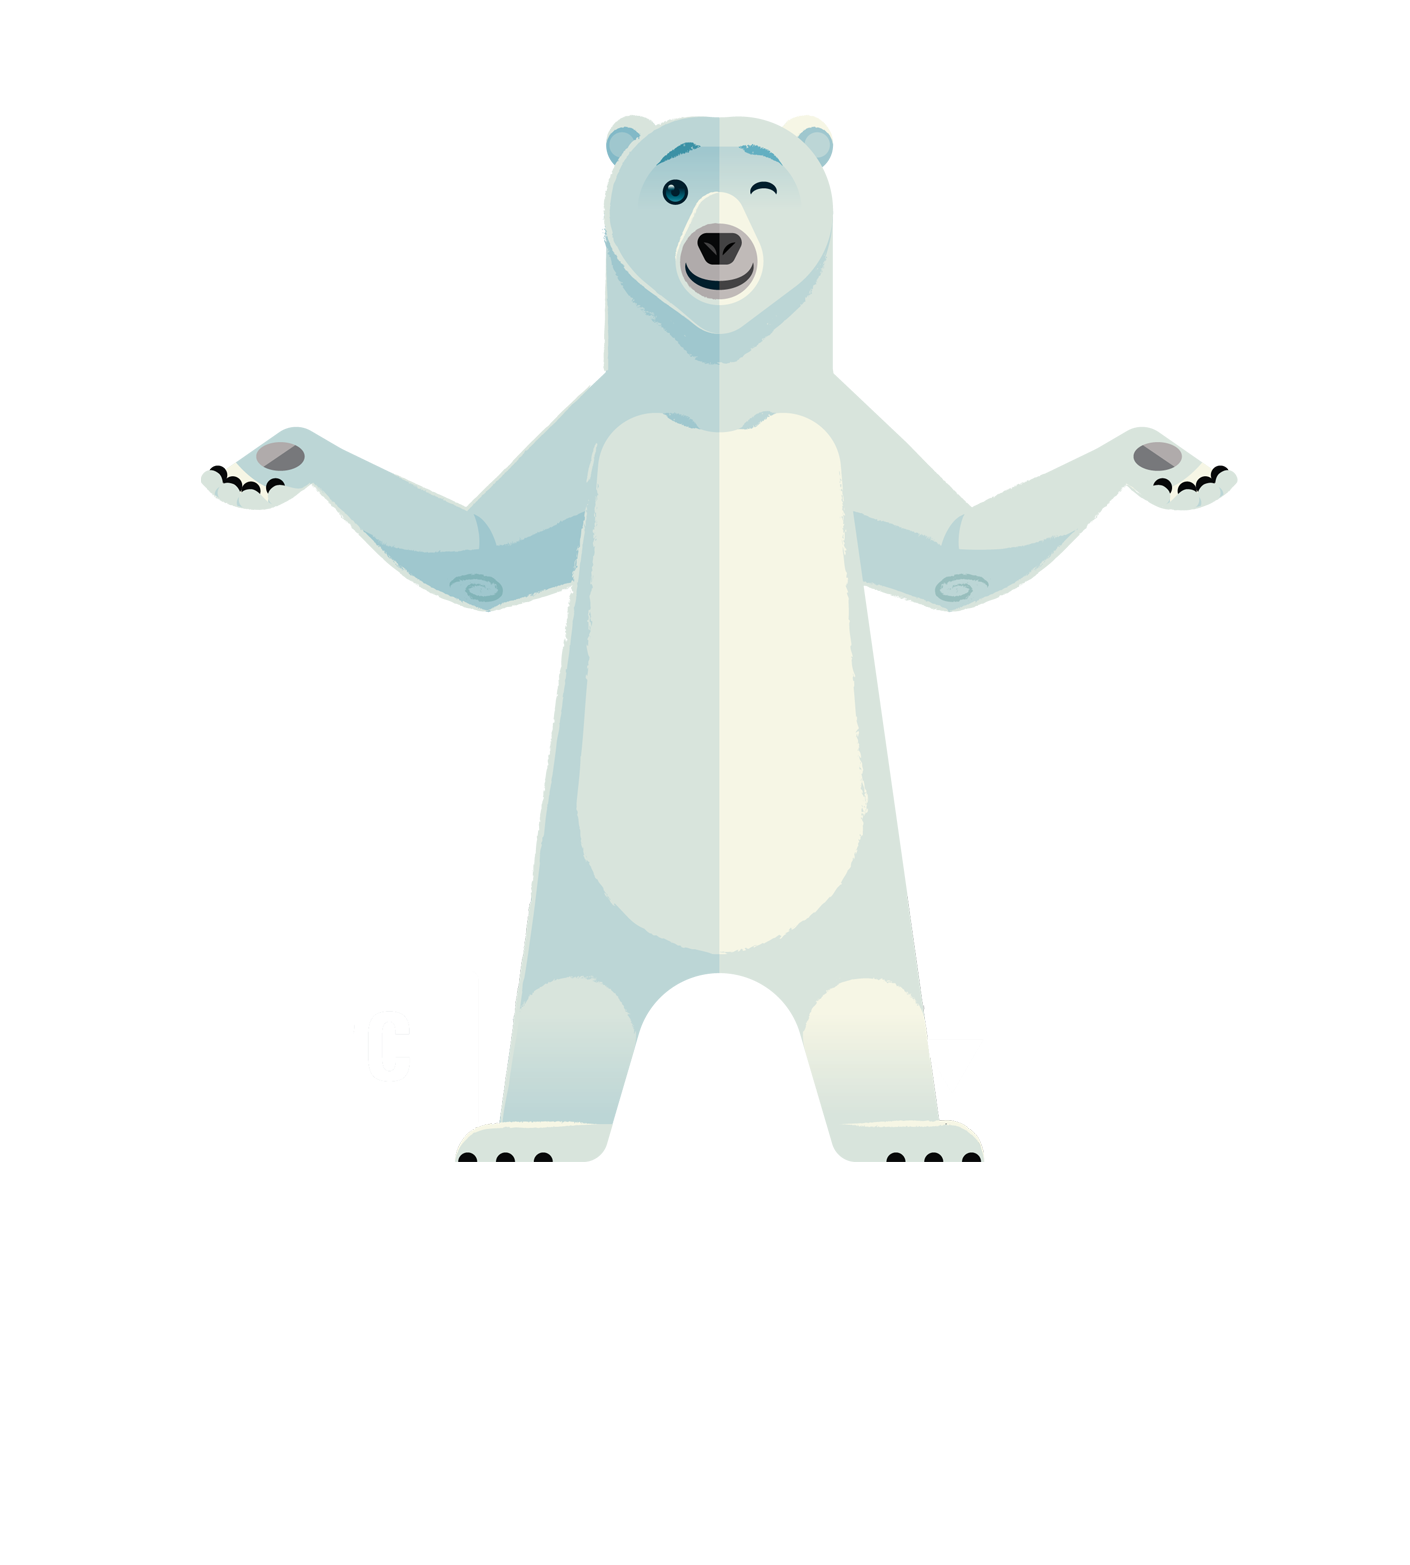
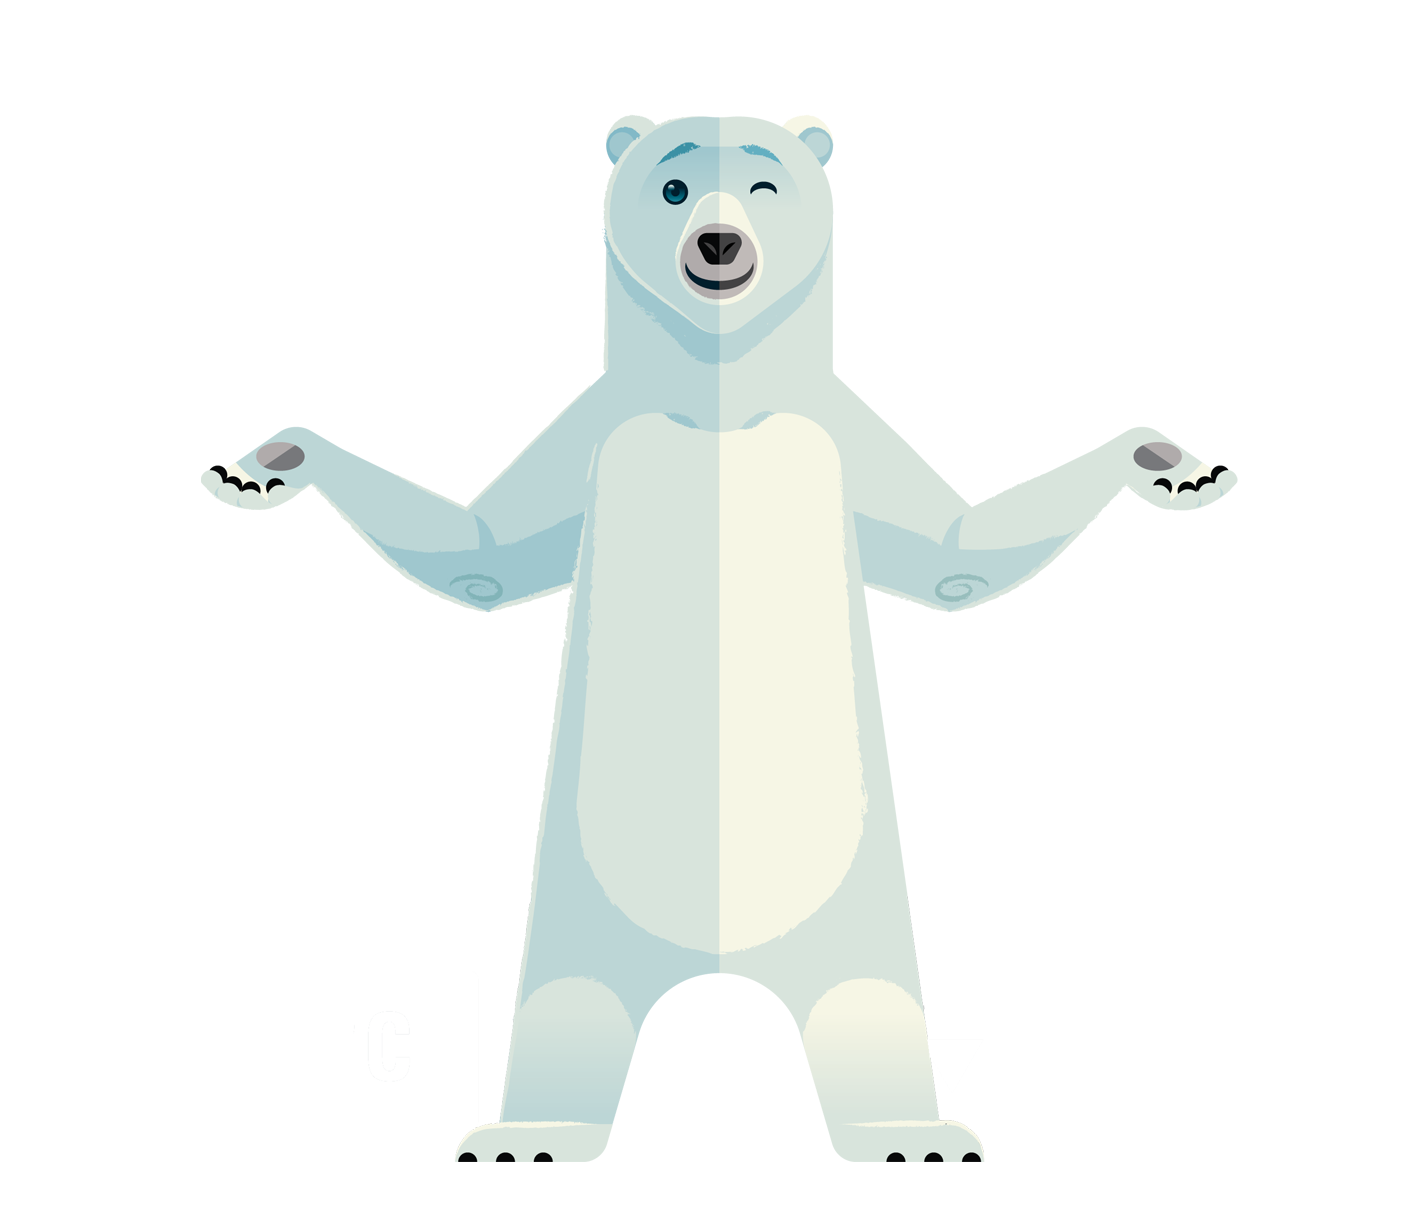
add calc user screen

Changed region(s): [[0.1248, 0.062, 0.8738, 0.9608]]

diff --git a/main.css b/main.css
@@ -1,8 +1,10 @@
 button {
+  /* position: fixed; */
+  /* align-self: flex-end; */
   font-family: "Open Sans";
   color: #fff;
   text-align: center;
-  position: absolute;
+  /* margin-bottom: 15px; */
 
   /* Round button */
 
@@ -14,8 +16,8 @@ button {
 
   /* Round button */
 
-  left: 870px;
-  bottom: 25px;
+  /* left: 870px; */
+  /* bottom: 25px; */
 
   width: 195px;
   height: 75px;
@@ -38,36 +40,55 @@ button:hover {
 
 body {
   display: flex;
+  flex-direction: column;
   /* justify-content: center; */
-  height: 100vh;
+  /* height: 100vh; */
+  /* height: 100px; */
+  /* width: 250px; */
   margin: 0px;
   padding: 0px;
-
+  /* background-color: #fcd299; */
   /* overflow: hidden; */
+  height: 100%;
+  background-image:  url("./assets/background.png"), linear-gradient(#fcd299, LightGray);
+  background-size: 70% 100%, contain;
+  background-repeat: no-repeat;
+  background-position: center;
 }
 
 .scene {
+  position: relative;
   display: flex;
-  height: 100%;
+  justify-content: center;
+  /* height: 750px; */
+  /* width: 1550px; */
   width: 100%;
+  height: 100%;
   font-family: "Open Sans";
-  /* justify-content: center;
-  align-items: center; */
+  border: 5px solid red;
+  box-sizing: border-box;
+  /* align-items: center; */
   /* justify-content: flex-start; */
   /* justify-content: space-between; */
   /* flex-direction: column; */
   /* overflow: hidden; */
 
   /* background-image: linear-gradient(#6e4aff, #49A16C); */
-  background-image: url("./assets/background.png");
+  /* background-image: url("./assets/background.png"); */
   /* background-color: gray; */
   /* background-size: cover; */
-  background-size: 70% 100%;
-  background-repeat: no-repeat;
-  background-position: center;
+  /* background-size: 70% 100%; */
+  /* background-repeat: no-repeat; */
+  /* background-position: center; */
   /* background-size: contain; */
   background-origin: content-box;
   z-index: 0;
+}
+
+.scene__footer {
+  justify-self: center;
+  align-self: flex-end;
+  padding-bottom: 15px;
 }
 
 .background-image::before {
@@ -75,7 +96,7 @@ body {
   position: absolute;
   width: 100%;
   height: 100%;
-  background-image: linear-gradient(#fcd299, LightGray);
+  /* background-image: linear-gradient(#fcd299, LightGray); */
   z-index: -55;
 }
 
@@ -84,7 +105,7 @@ body {
   position: absolute;
   width: 100%;
   height: 100%;
-  background-image: url("./assets/background.png");
+  /* background-image: url("./assets/background.png"); */
   z-index: -45;
   background-size: 70% 100%;
   background-repeat: no-repeat;
@@ -93,14 +114,15 @@ body {
 }
 
 .background-image {
-  position: absolute;
-  overflow: hidden;
+  position: fixed;
+  /* overflow: hidden; */
   display: flex;
   width: 100%;
-  height: 100%;
+  height: calc(100% - 100px);
   justify-content: center;
-  align-items: center;
   /* align-items: center; */
+  /* align-items: center; */
+  /* background-image: url("./assets/background.png"); */
   /* background-image: url("./assets/bear.png"); */
   /* background-repeat: no-repeat; */
   /* background-size: contain; */
@@ -111,20 +133,23 @@ body {
   position: relative;
   /* display: flex; */
   /* justify-content: flex-end; */
-  background-position: top;
+
+  background-position: center;
 
   /* width: 100%; */
   /* height: 100%; */
   width: 100vh;
   /* height: 100vh; */
-  height: 955px;
+  /* height: 955px; */
+  height: 100%;
   /* left: */
   /* left: 28%; */
-  background-image: url("./assets/bear.png");
+  background-image: url("./assets/bear-3.png");
   /* background-size: auto; */
   background-repeat: no-repeat;
   /* background-size: 40% 100%; */
-  background-size: 100% 1100px;
+  /* background-size: 100% 100%; */
+  background-size: contain;
   z-index: -10;
 }
 
@@ -138,53 +163,79 @@ body {
   /* top: 45%; */
   /* right: 15%; */
 
-  left: 1200px;
-  top: 58px;
+  /* left: 1200px; */
+  /* top: 58px; */
+
+  transform: translateX(320px) translateY(65px) scale(0.9);
 }
 
 :root {
-  --lottery-left: 485px;
-  --lottery-height: 240px;
-  --lottery-width: 240px;
+  /* --lottery-left: 485px; */
+  /* --lottery-height: 240px; */
+  /* --lottery-width: 240px; */
+}
+
+.lottery {
+  position: fixed;
+  display: flex;
+  justify-content: space-between;
+  width: calc(100vh - 50px);
+  height: 190px;
 }
 
 .lottery-machine {
+  display: flex;
+  position: absolute;
+  /* width: 100%; */
+  /* height: 100%; */
   /* position: absolute; */
-  position: relative;
   border-radius: 50%;
+  /* width: 240px; */
+  /* height: 240px; */
+  /* justify-self: flex-start; */
+  /* transform: translateX(-320px) translateY(65px) scale(0.9); */
   /* left: 93px; */
-  left: var(--lottery-left);
-  top: 35px;
+  /* left: var(--lottery-left); */
+  /* left: 5%; */
+  /* top: 35px; */
   /* left: var(--lottery-left); */
   /* width: 200px; */
-  width: var(--lottery-height);
+  /* width: var(--lottery-height); */
+  /* width: 25%; */
+  /* min-width: 150px; */
+  /* max-width: 450px; */
   /* width: 100%; */
   /* height: 215px; */
-  height: var(--lottery-height);
+  /* height: var(--lottery-height); */
   /* height: 100%; */
-  display: flex;
-  justify-content: center;
+  /* display: flex; */
+  /* justify-content: center; */
   /* ju */
   /* justify-self: flex-end; */
 }
+
 .lottery-machine-canvas {
-  position: absolute;
-  left: 8px;
-  top: 23px;
-  width: var(--lottery-width);
-  height: var(--lottery-height);
-  padding: 7px;
+  /* position: fixed; */
+  /* left: 8px; */
+  /* top: 23px; */
+  /* width: var(--lottery-width); */
+  /* height: var(--lottery-height); */
+  /* padding: 7px; */
   border-radius: inherit;
   box-sizing: border-box;
   transition: opacity 0.7s;
 }
+
 .lottery-machine::after {
   content: "";
   position: absolute;
-  left: 8px;
-  top: 23px;
-  width: var(--lottery-width);
-  height: var(--lottery-height);
+  /* left: 8px; */
+  /* top: 23px; */
+  left: 0px;
+  /* width: var(--lottery-width); */
+  /* height: var(--lottery-height); */
+  width: 100%;
+  height: 100%;
   background-color: rgba(115, 140, 148, 0.651);
   border: 7px solid darkorange;
   border-radius: inherit;
@@ -408,4 +459,15 @@ body {
 }
 .lottery-ball.clone.no-transition {
   transition: none;
+}
+
+
+.user-window{
+	width: 100%;
+	position: absolute;
+	display: flex;
+	/* justify-content: flex-end; */
+	flex-direction: column;
+	align-items: flex-end;
+	font-size: xx-large;
 }

diff --git a/script.js b/script.js
@@ -16,7 +16,7 @@ class LotteryMachine {
       },
       size: 240,
       ball: {
-        count: 48,
+        count: 32,
         size: 100,
         colors: [
           "#c15bb6",
@@ -482,3 +482,29 @@ const handleClick = () => {
 };
 
 $button.on("click", handleClick);
+
+document.addEventListener("DOMContentLoaded", () => {
+  const lotteryMachine = document.querySelector(".lottery-machine");
+  const targetDiv = document.querySelector(".background-image");
+  let div = document.createElement("div");
+  div.classList.add("lottery")
+
+  div.appendChild(lotteryMachine);
+  targetDiv.appendChild(div);
+caldWindow()
+});
+
+function caldWindow(){
+console.log("calc")
+
+	let width = window.innerWidth;
+	let height = window.innerHeight;
+
+	const spanWidth = document.querySelector(".userWidth");
+	const spanHeight = document.querySelector(".userHeight");
+
+	spanWidth.innerHTML = `w: ${width}`;
+	spanHeight.innerHTML = `h: ${height}`;
+}
+
+window.addEventListener("resize", caldWindow);

diff --git a/index.html b/index.html
@@ -11,12 +11,18 @@
 			<div class="background-image__main"></div>
 		</div>
 		<div id="ball-place"></div>
-		<button id="play">Play</button>
+		<div class="scene__footer">
+			<button id="play">Play</button>
+		</div>
 		<!-- <div class="scene__bg-img"></div> -->
-		
-		<!-- <img src="./assets/bear.png" alt="" class="background-image__main"> -->
-	</div>
 
+		<!-- <img src="./assets/bear.png" alt="" class="background-image__main"> -->
+
+	</div>
+	<div class="user-window">
+		<span class="userWidth"></span>
+		<span class="userHeight"></span>
+	</div>
 	<!-- <div class="background-image">
 		<div class="background-image__main"></div>
 	</div> -->
